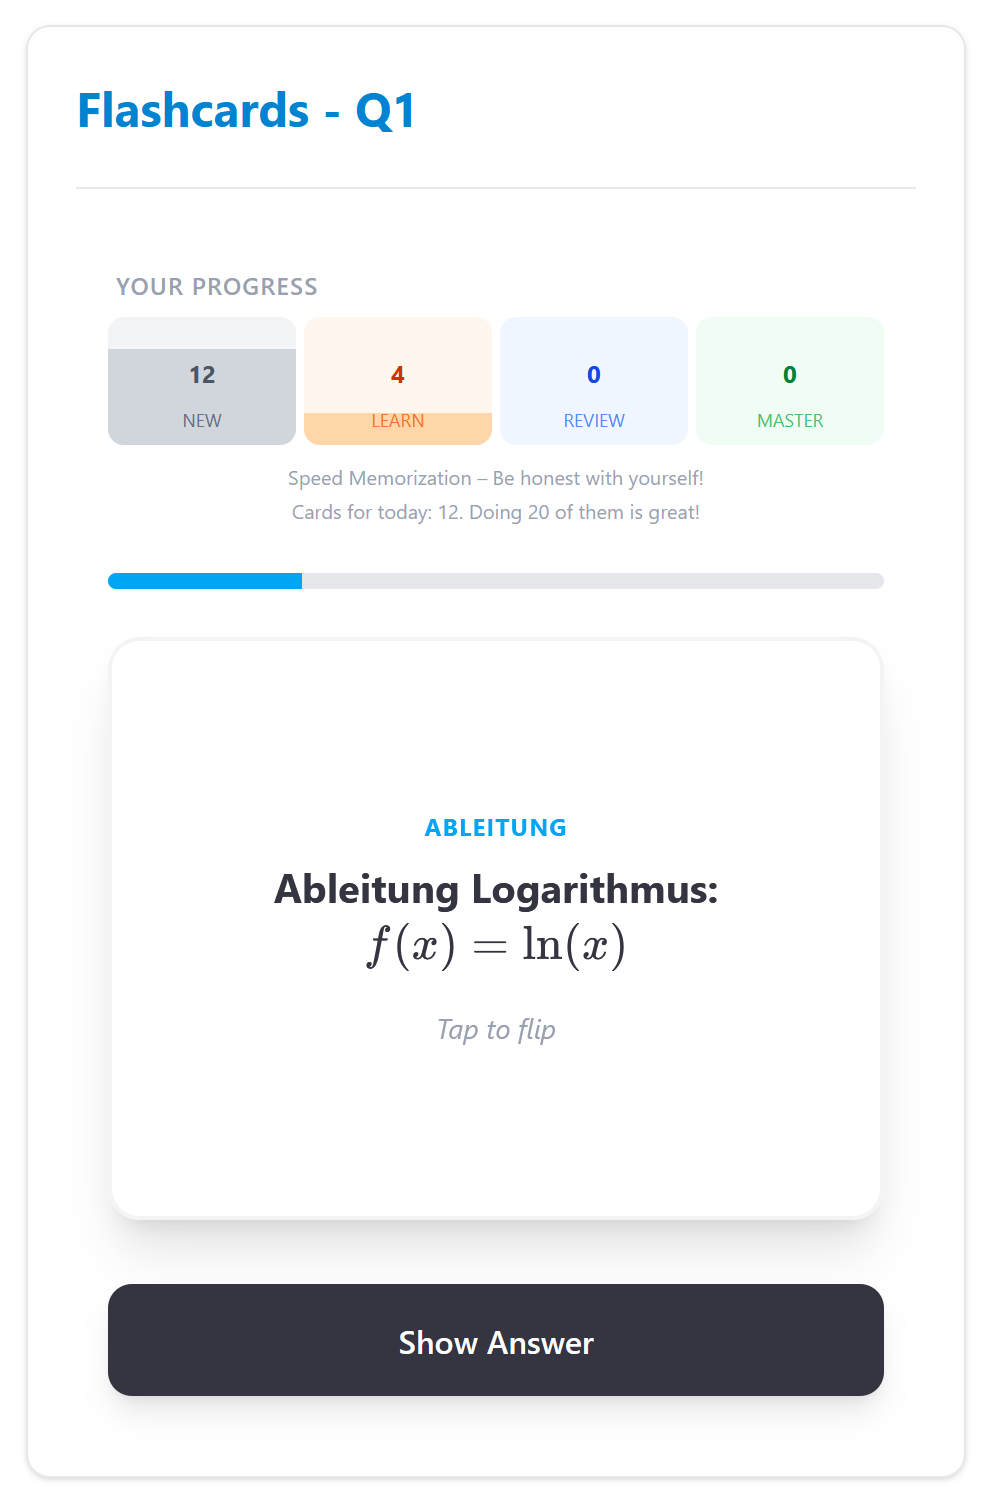
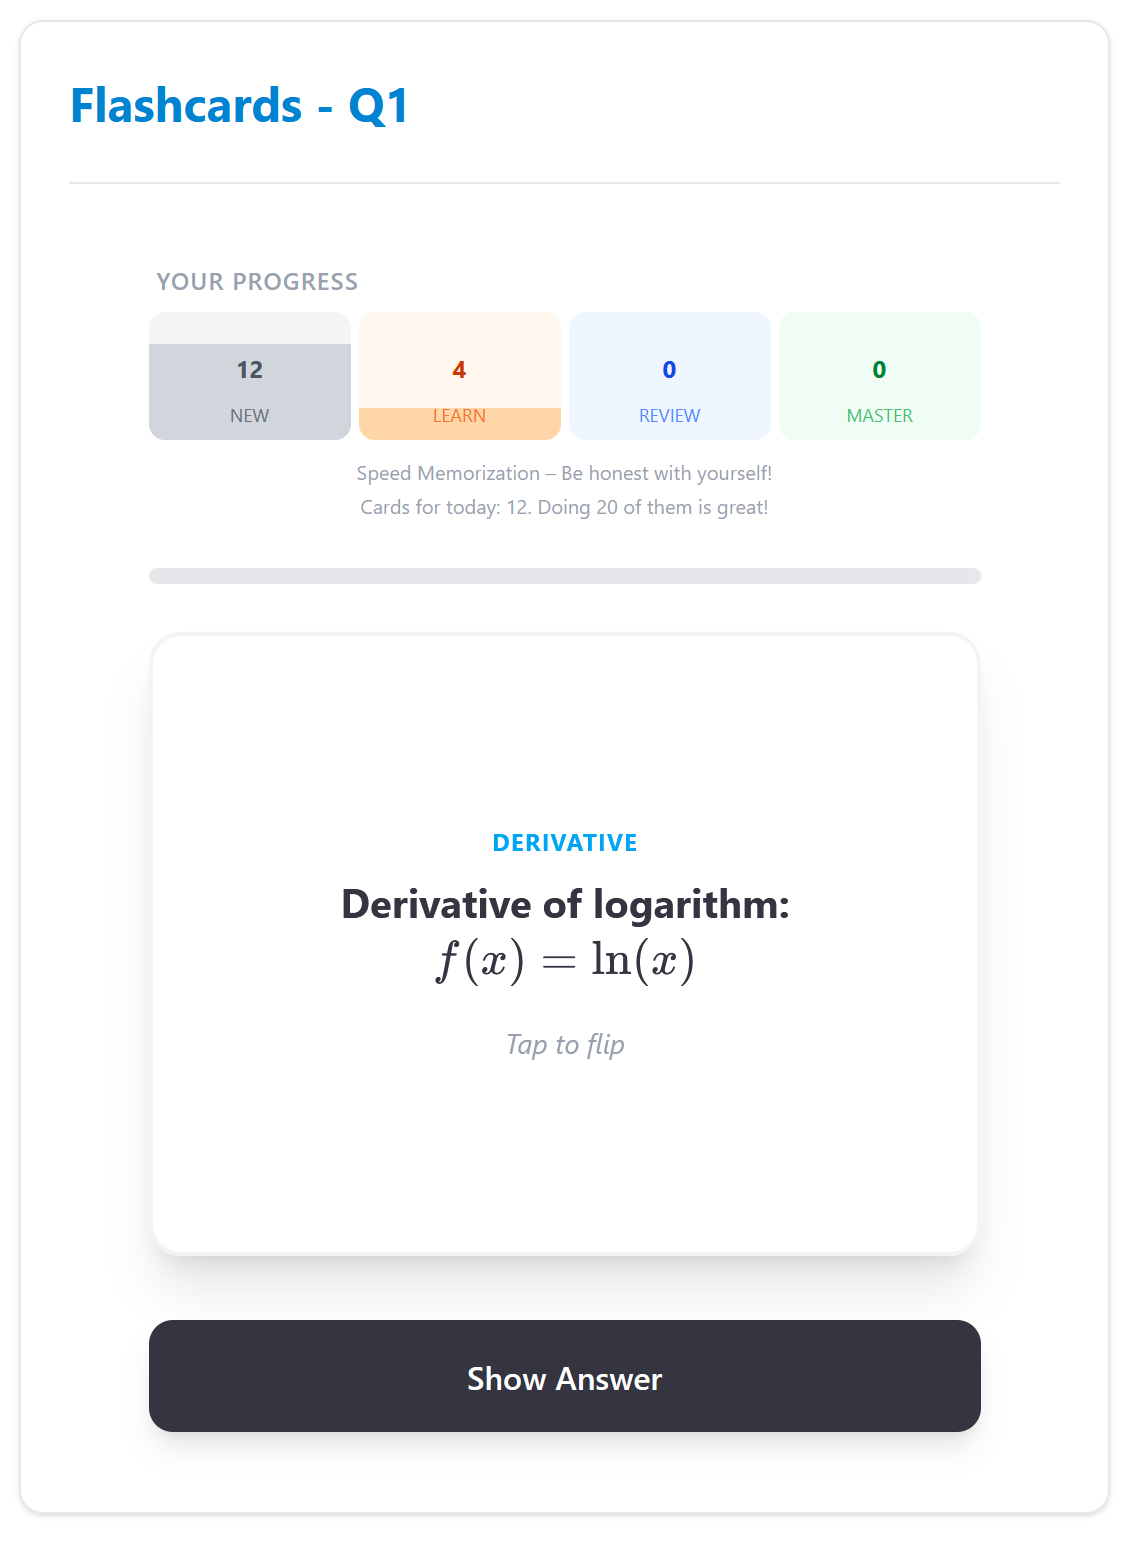
curriculum update

diff --git a/app/src/components/GoalCard.tsx b/app/src/components/GoalCard.tsx
@@ -5,6 +5,7 @@ import type { UiGoal as Goal } from '../goalTypes'
 import { MasteryBar } from './MasteryBar'
 import { isMastered } from '../goalUiUtils'
 import { InlineMathText } from './InlineMathText'
+import { useLanguage } from '../contexts/LanguageContext'
 
 interface GoalCardProps {
   goal: Goal
@@ -39,6 +40,9 @@ export const GoalCard: React.FC<GoalCardProps> = ({
   nextCandidates = [],
   isFrontier = false
 }) => {
+  const { language } = useLanguage()
+  const examTaskLabel = language === 'en' ? 'Exam Task' : 'Prüfungsaufgabe'
+  const solutionLabel = language === 'en' ? 'Sample Solution' : 'Musterlösung'
   const handleChange = onMasteryChange ?? (() => { })
 
   // Detect if Atomic Goal (no children)
@@ -102,7 +106,7 @@ export const GoalCard: React.FC<GoalCardProps> = ({
             <div className="bg-blue-50 dark:bg-blue-900/10 p-4 rounded-xl border border-blue-100 dark:border-blue-900/30">
               <h3 className="text-sm font-bold text-blue-700 dark:text-blue-400 uppercase tracking-wide mb-2 flex items-center gap-2">
                 <Target size={16} />
-                Prüfungsaufgabe
+                {examTaskLabel}
               </h3>
               <ReactMarkdown
                 remarkPlugins={[remarkMath]}
@@ -117,7 +121,7 @@ export const GoalCard: React.FC<GoalCardProps> = ({
           <div className="bg-emerald-50 dark:bg-emerald-900/10 p-4 rounded-xl border border-emerald-100 dark:border-emerald-900/30">
             <h3 className="text-sm font-bold text-emerald-700 dark:text-emerald-400 uppercase tracking-wide mb-2 flex items-center gap-2">
               <Check size={16} />
-              Musterlösung
+              {solutionLabel}
                 </h3>
                 <ReactMarkdown
                   remarkPlugins={[remarkMath]}

diff --git a/backend/src/main/java/com/skillpilot/backend/landscape/LandscapeService.java b/backend/src/main/java/com/skillpilot/backend/landscape/LandscapeService.java
@@ -135,7 +135,7 @@ public class LandscapeService {
                 gc.setExtendedData(g.getExtendedData());
                 gc.setType(g.getType());
                 gc.setNodeKind(g.getNodeKind());
-                gc.setExamData(g.getExamData());
+                gc.setExamData(localizeExamData(g.getExamData(), lang));
 
                 // Localize Goal Title/Desc
                 gc.setTitle(StringUtils.hasText(g.getTitleEn()) ? g.getTitleEn() : g.getTitle());
@@ -149,6 +149,27 @@ public class LandscapeService {
             copy.setGoals(localizedGoals);
         }
 
+        return copy;
+    }
+
+    private ExamData localizeExamData(ExamData original, String lang) {
+        if (original == null) {
+            return null;
+        }
+        if (!"en".equals(lang)) {
+            return original;
+        }
+
+        ExamData copy = new ExamData();
+        copy.setTaskContent(StringUtils.hasText(original.getTaskContentEn())
+                ? original.getTaskContentEn()
+                : original.getTaskContent());
+        copy.setTaskContentEn(original.getTaskContentEn());
+        copy.setSolutionContent(StringUtils.hasText(original.getSolutionContentEn())
+                ? original.getSolutionContentEn()
+                : original.getSolutionContent());
+        copy.setSolutionContentEn(original.getSolutionContentEn());
+        copy.setScoring(original.getScoring());
         return copy;
     }
 
